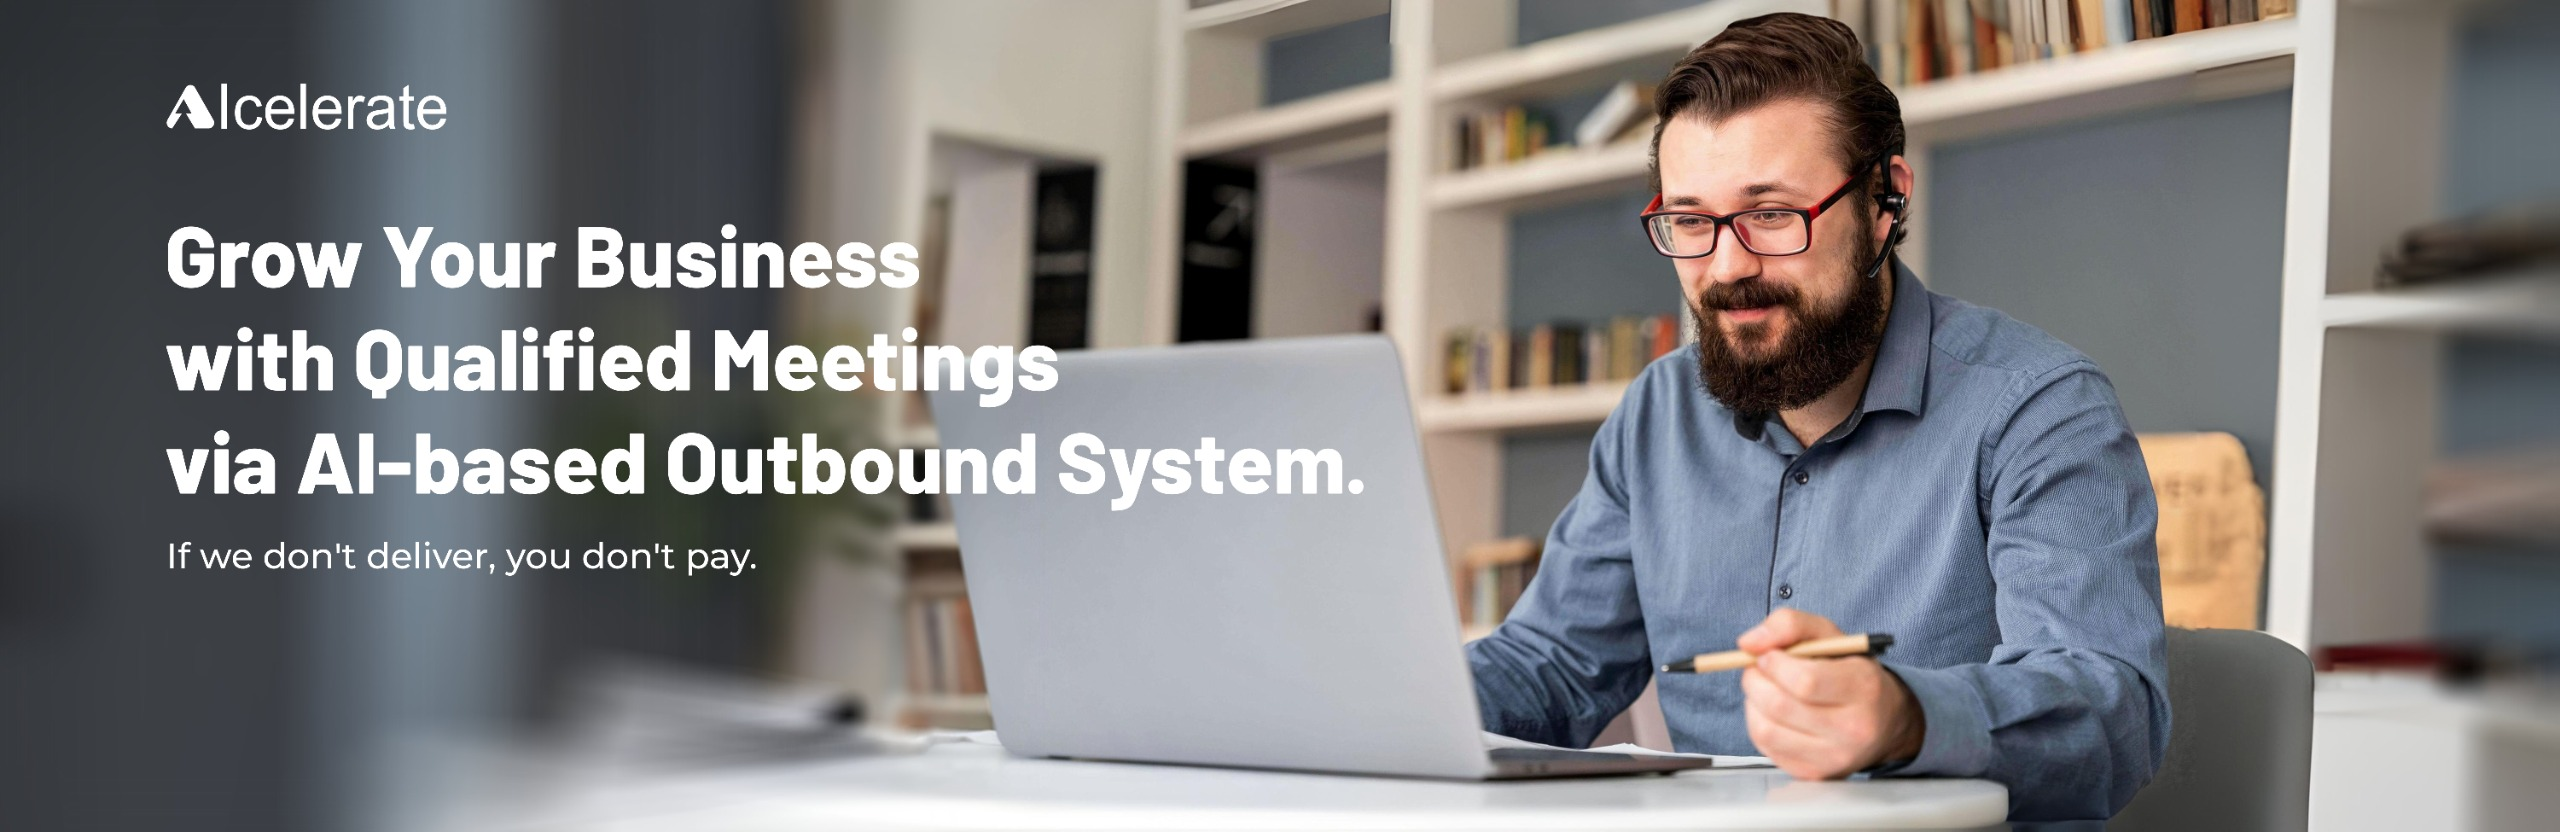
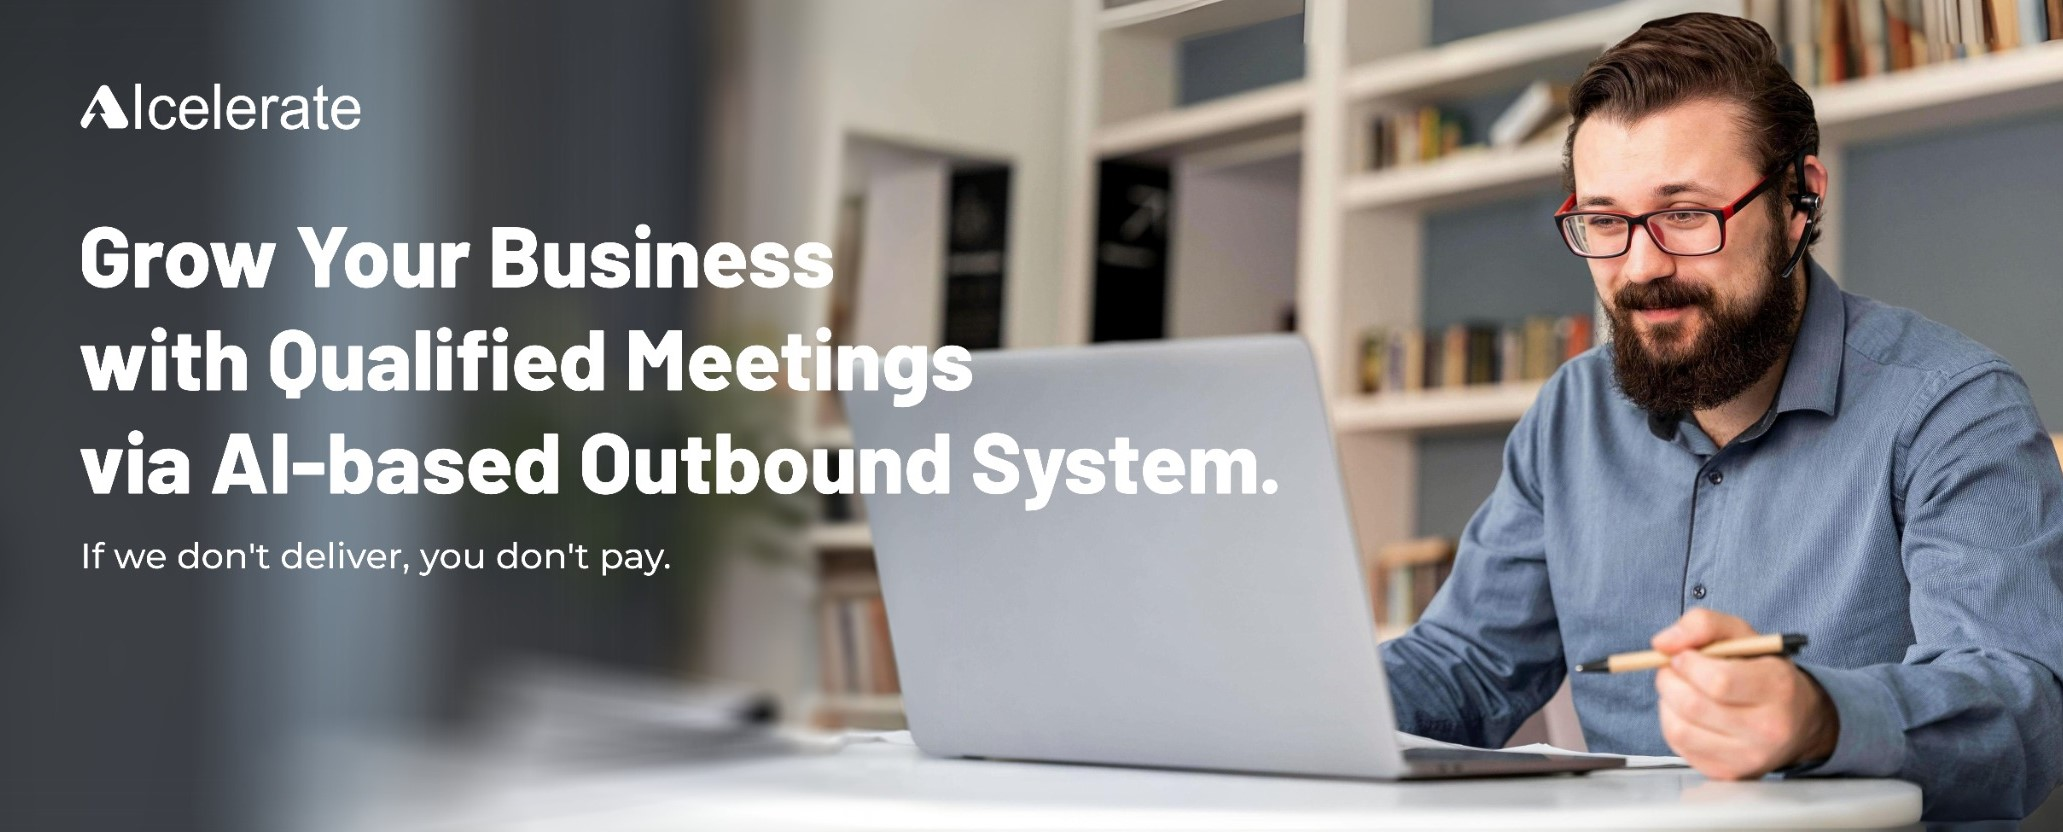
new code

diff --git a/index.html b/index.html
@@ -112,7 +112,7 @@ src="https://www.facebook.com/tr?id=1219226336561767&ev=PageView&noscript=1"
     background-size: 100% auto; /* Full width, auto height */
     width: 100vw; /* Full viewport width */
     height: auto; 
-    min-height: 66vh !important;
+    min-height: 83vh !important;
     /* aspect-ratio: 16 / 9; Maintain 1920x1080 ratio */
 }
 
@@ -1240,7 +1240,7 @@ src="https://www.facebook.com/tr?id=1219226336561767&ev=PageView&noscript=1"
                 "         
                 onmouseover="this.style.transform='translateY(-5px)';"
                 onmouseout="this.style.transform='translateY(0)';">
-                <img src="img/I3.webp" alt="">              
+                <img src="img/I3.svg" alt="">              
             </div>
         </div>
 
@@ -1254,7 +1254,7 @@ src="https://www.facebook.com/tr?id=1219226336561767&ev=PageView&noscript=1"
                 "         
                 onmouseover="this.style.transform='translateY(-5px)';"
                 onmouseout="this.style.transform='translateY(0)';">
-                <img src="img/I4.webp" alt="">              
+                <img src="img/I4.svg" alt="">              
             </div>
         </div>
 
@@ -1268,7 +1268,7 @@ src="https://www.facebook.com/tr?id=1219226336561767&ev=PageView&noscript=1"
                 "         
                 onmouseover="this.style.transform='translateY(-5px)';"
                 onmouseout="this.style.transform='translateY(0)';">
-                <img src="img/I5.webp" alt="">              
+                <img src="img/I5.svg" alt="">              
             </div>
         </div>
 
